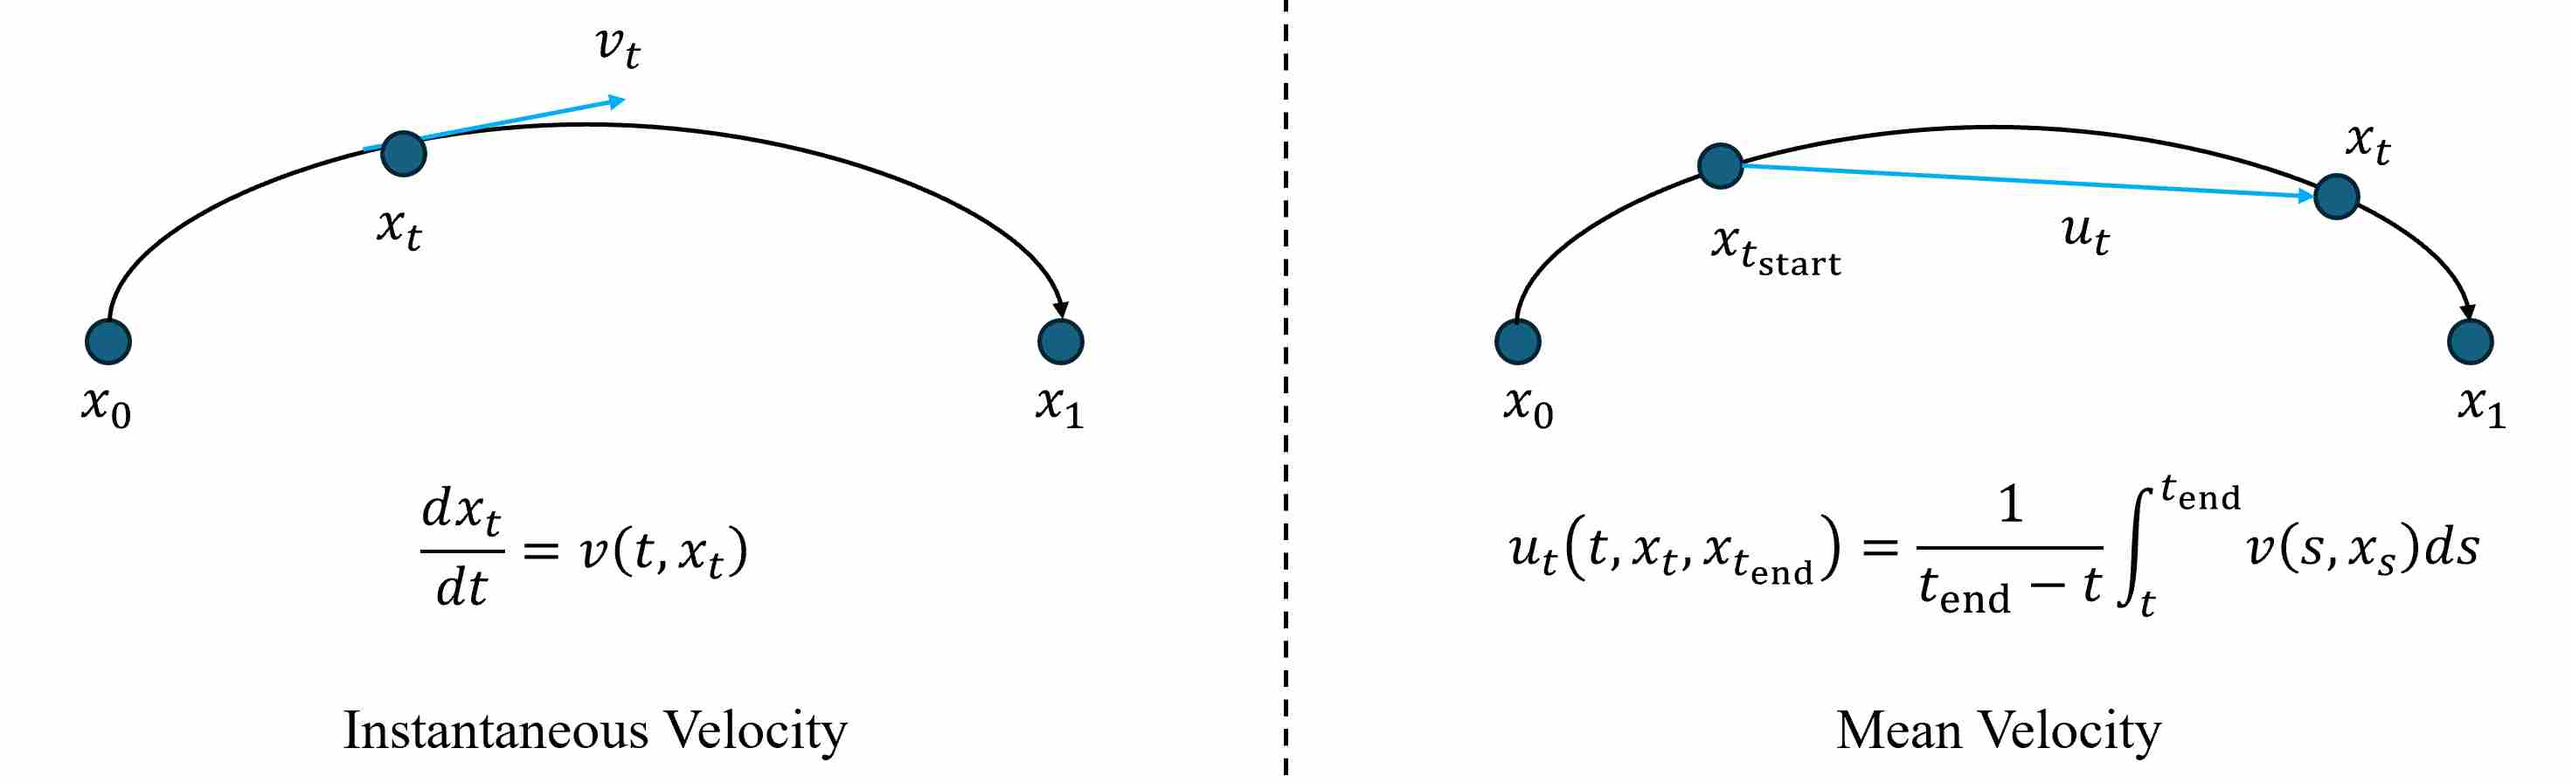
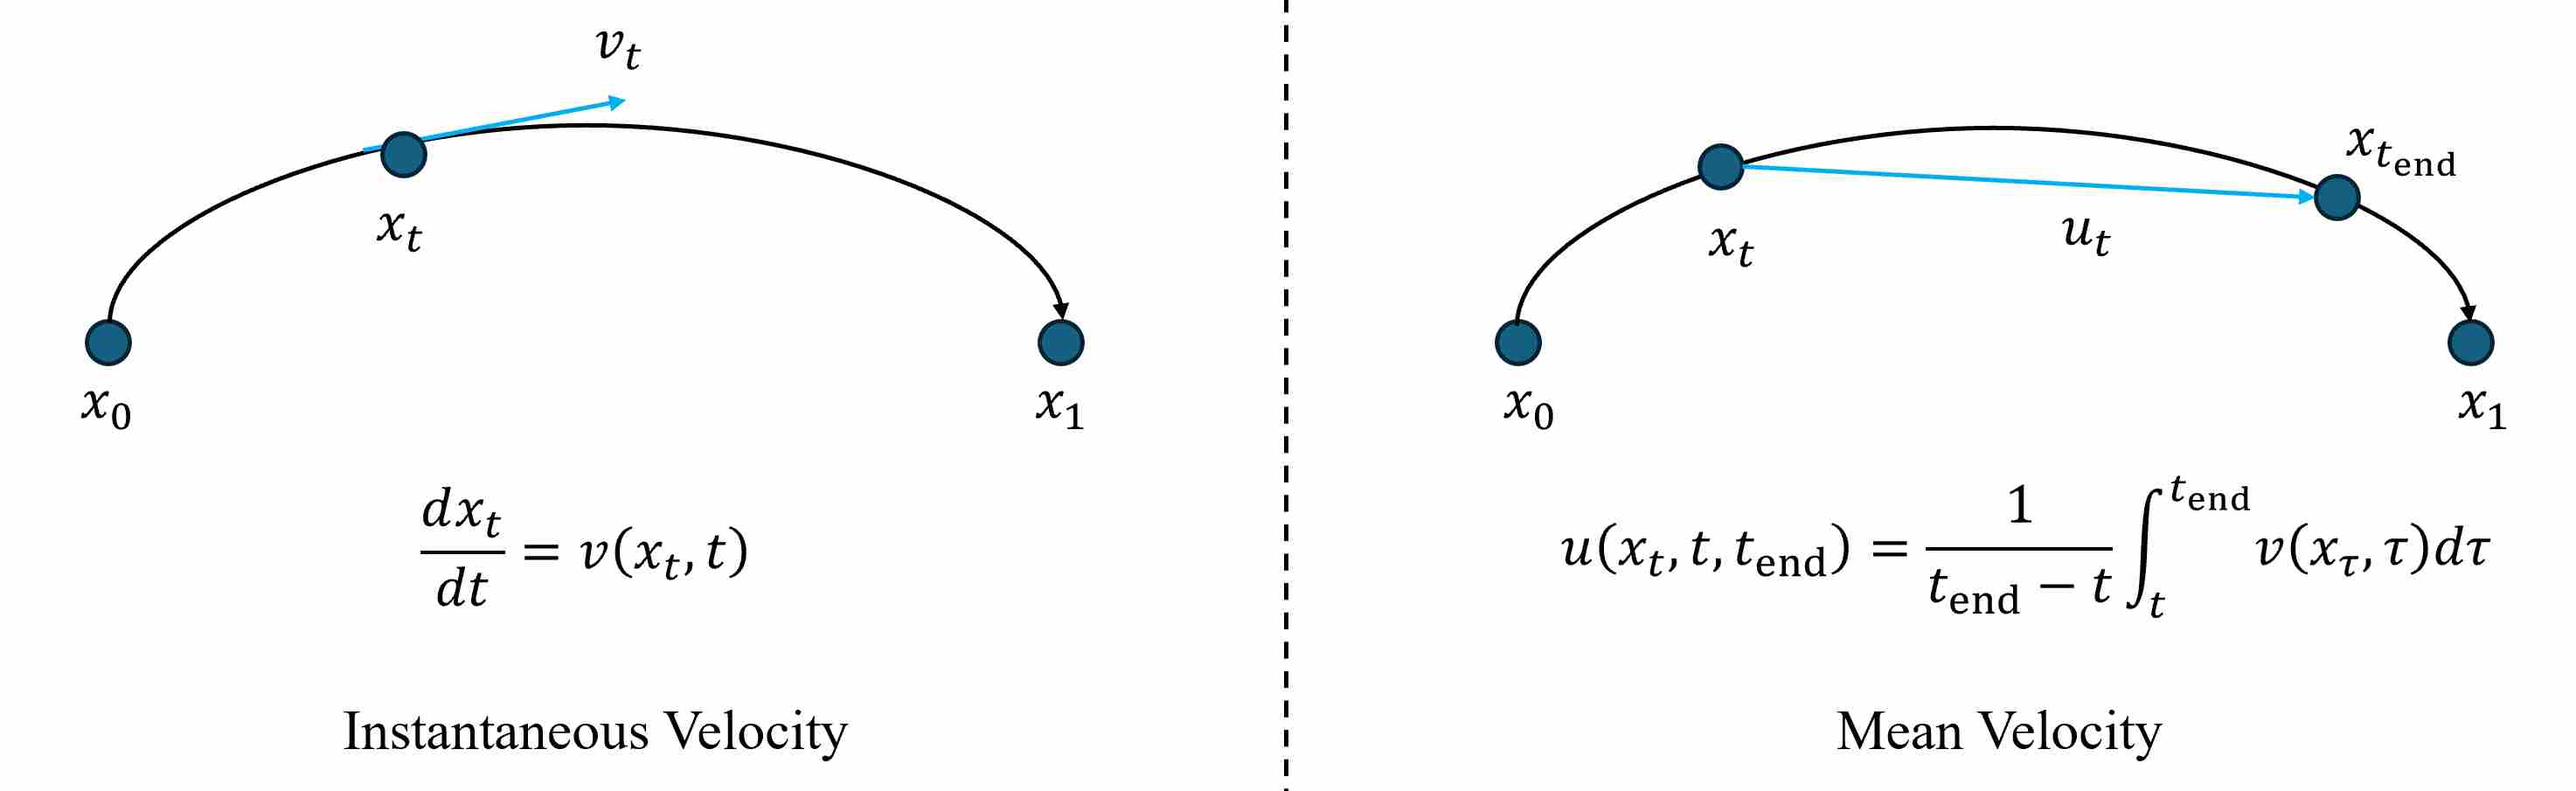
update

diff --git a/_posts/2025-09-15-blog-post.md b/_posts/2025-09-15-blog-post.md
@@ -292,7 +292,7 @@ Although Flow Matching (FM) and Rectified Flow (RF) have provided a unified ODE 
 To overcome this structural mismatch, **MeanFlow** [^meanflow] proposes to replace the instantaneous velocity by its **temporal average**, thus directly learning a quantity that corresponds to a **finite displacement** rather than an infinitesimal one. By learning the **mean velocity field**
 
 $$
-u(x_t, r, t) = \frac{1}{t_{\text{end}}-t} \int_t^{t_{\text{end}}} v(x_\tau, \tau), d\tau,
+u(x_t, t, t_{\text{end}}) = \frac{1}{t_{\text{end}}-t} \int_t^{t_{\text{end}}} v(x_\tau, \tau)\, d\tau,
 $$
 
 
@@ -324,7 +324,7 @@ $$
 Differentiating the definition of $u$ with respect to $t$ gives
 
 $$
-\frac{d}{dt}!\left[(t-r)u(z_t, r, t)\right] = v(z_t, t).
+\frac{d}{dt}\!\left[(t_{\text{end}}-t)u(x_t, t, t_{\text{end}})\right] = \frac{d}{dt} \int_t^{t_{\text{end}}} v(x_\tau, \tau)\, d\tau = -v(x_t, t).
 $$
 
 Applying the product rule leads to the **MeanFlow Identity**
